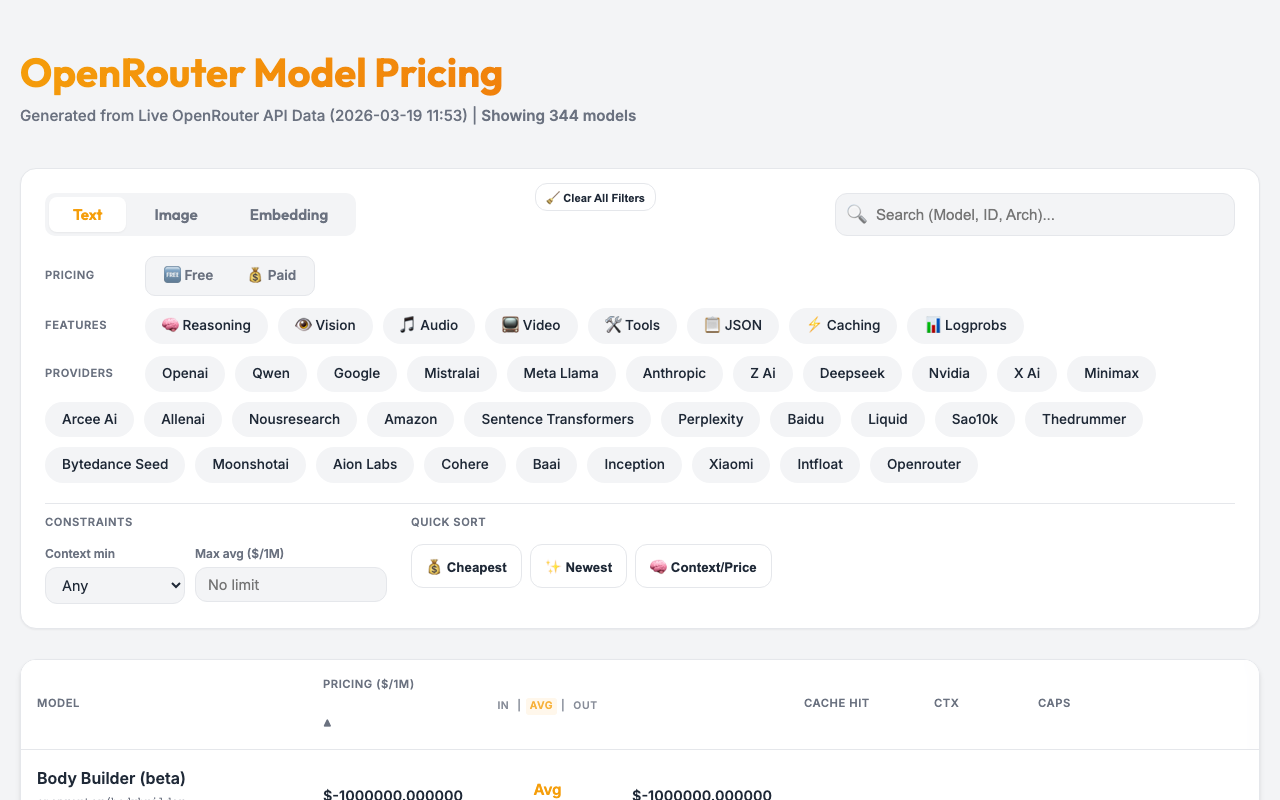
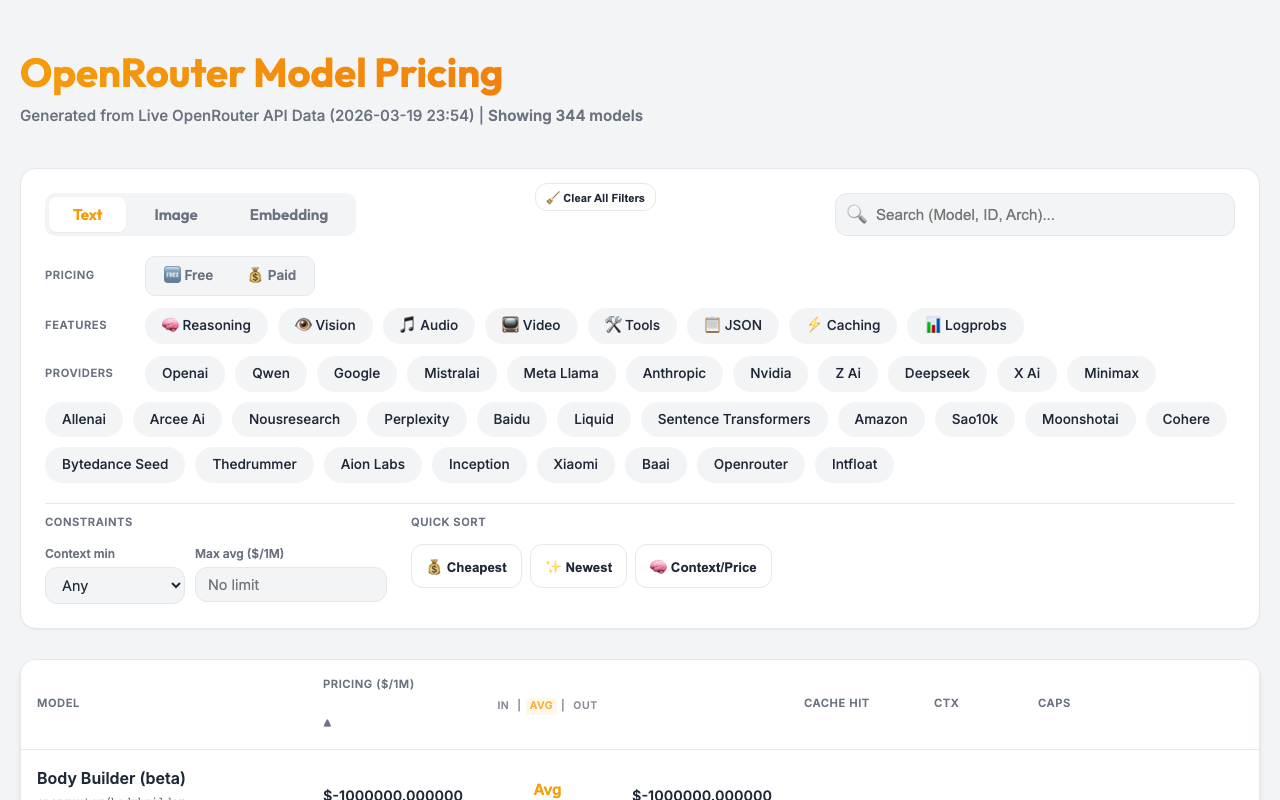
chore: automated pricing update (2026-03-19 23:54:24)
🔄 Changed Models (3): anthropic/claude-opus-4.6, xiaomi/mimo-v2-omni, xiaomi/mimo-v2-pro

diff --git a/docs/index.html b/docs/index.html
@@ -634,7 +634,7 @@
     <div class="container">
         <header>
             <h1>OpenRouter Model Pricing</h1>
-            <div class="meta">Generated from Live OpenRouter API Data (2026-03-19 11:53)</div>
+            <div class="meta">Generated from Live OpenRouter API Data (2026-03-19 23:54)</div>
         </header>
 
         <div class="controls">
@@ -703,7 +703,7 @@
     {
       "id": "xiaomi/mimo-v2-omni",
       "canonical_slug": "xiaomi/mimo-v2-omni-20260318",
-      "hugging_face_id": "XiaomiMiMo/MiMo-V2-Omni",
+      "hugging_face_id": "",
       "name": "Xiaomi: MiMo-V2-Omni",
       "created": 1773863703,
       "description": "MiMo-V2-Omni is a frontier omni-modal model that natively processes image, video, and audio inputs within a unified architecture. It combines strong multimodal perception with agentic capability - visual grounding, multi-step planning, tool use, and code execution - making it well-suited for complex real-world tasks that span modalities. 256K context window.",
@@ -759,7 +759,7 @@
     {
       "id": "xiaomi/mimo-v2-pro",
       "canonical_slug": "xiaomi/mimo-v2-pro-20260318",
-      "hugging_face_id": "XiaomiMiMo/MiMo-V2-Pro",
+      "hugging_face_id": "",
       "name": "Xiaomi: MiMo-V2-Pro",
       "created": 1773863643,
       "description": "MiMo-V2-Pro is Xiaomi's flagship foundation model, featuring over 1T total parameters and a 1M context length, deeply optimized for agentic scenarios. It is highly adaptable to general agent frameworks like OpenClaw. It ranks among the global top tier in the standard PinchBench and ClawBench benchmarks, with perceived performance approaching that of Opus 4.6. MiMo-V2-Pro is designed to serve as the brain of agent systems, orchestrating complex workflows, driving production engineering tasks, and delivering results reliably.",
@@ -2647,7 +2647,10 @@
       "default_parameters": {
         "temperature": null,
         "top_p": null,
-        "frequency_penalty": null
+        "top_k": null,
+        "frequency_penalty": null,
+        "presence_penalty": null,
+        "repetition_penalty": null
       },
       "expiration_date": null
     },
@@ -19045,7 +19048,7 @@
   ],
   "other": []
 };
-        window.providerOptions = ['openai', 'qwen', 'google', 'mistralai', 'meta-llama', 'anthropic', 'z-ai', 'deepseek', 'nvidia', 'x-ai', 'minimax', 'arcee-ai', 'allenai', 'nousresearch', 'amazon', 'sentence-transformers', 'perplexity', 'baidu', 'liquid', 'sao10k', 'thedrummer', 'bytedance-seed', 'moonshotai', 'aion-labs', 'cohere', 'baai', 'inception', 'xiaomi', 'intfloat', 'openrouter', 'inflection', 'microsoft', 'thenlper', 'relace', 'morph', 'stepfun', 'bytedance', 'kwaipilot', 'gryphe', 'ai21', 'eleutherai', 'tngtech', 'writer', 'meituan', 'alfredpros', 'switchpoint', 'prime-intellect', 'upstage', 'anthracite-org', 'nex-agi', 'deepcogito', 'tencent', 'cognitivecomputations', 'essentialai', 'undi95', 'ibm-granite', 'mancer', 'alpindale', 'alibaba'];
+        window.providerOptions = ['openai', 'qwen', 'google', 'mistralai', 'meta-llama', 'anthropic', 'nvidia', 'z-ai', 'deepseek', 'x-ai', 'minimax', 'allenai', 'arcee-ai', 'nousresearch', 'perplexity', 'baidu', 'liquid', 'sentence-transformers', 'amazon', 'sao10k', 'moonshotai', 'cohere', 'bytedance-seed', 'thedrummer', 'aion-labs', 'inception', 'xiaomi', 'baai', 'openrouter', 'intfloat', 'thenlper', 'inflection', 'microsoft', 'morph', 'relace', 'stepfun', 'mancer', 'deepcogito', 'nex-agi', 'anthracite-org', 'bytedance', 'tngtech', 'tencent', 'cognitivecomputations', 'meituan', 'alibaba', 'alfredpros', 'prime-intellect', 'alpindale', 'undi95', 'essentialai', 'writer', 'ai21', 'kwaipilot', 'eleutherai', 'ibm-granite', 'gryphe', 'upstage', 'switchpoint'];
         let currentTab = 'text';
         let sortKey = 'price_avg';
         let sortAsc = true;
